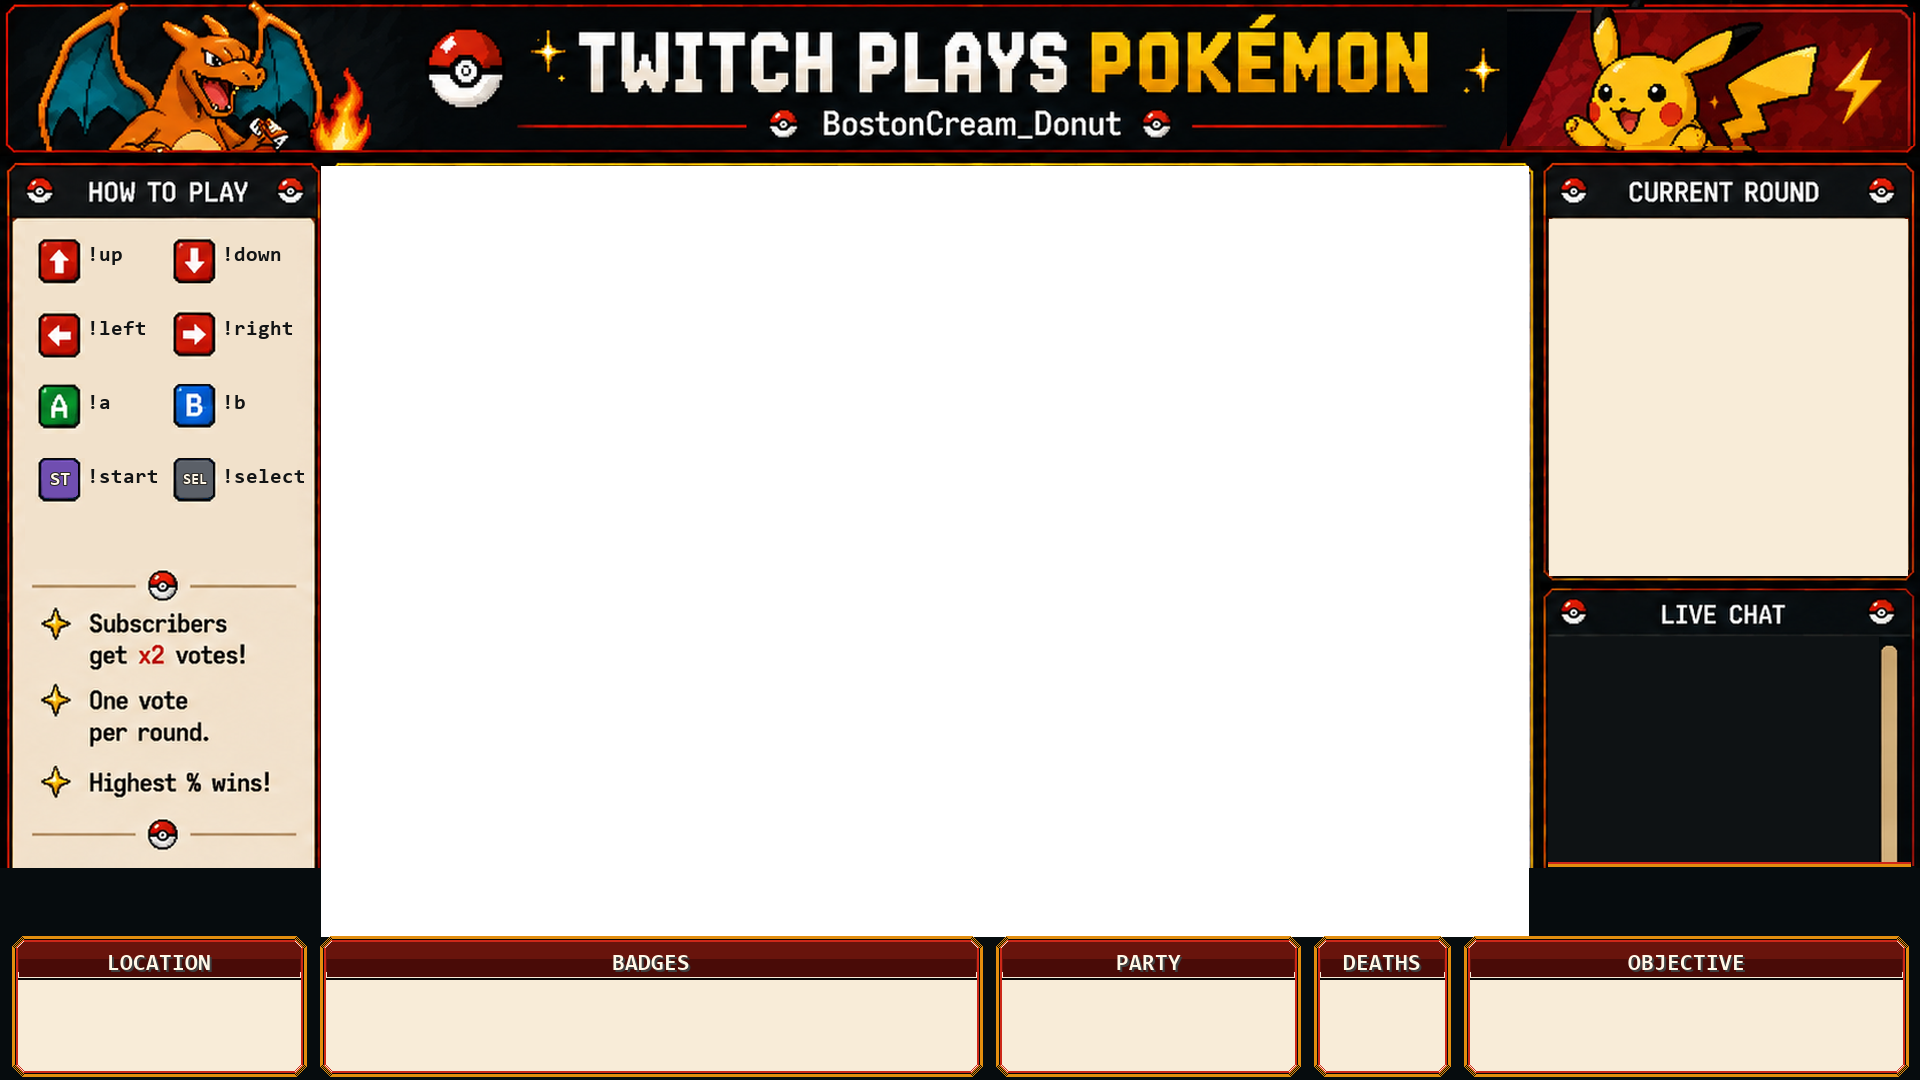
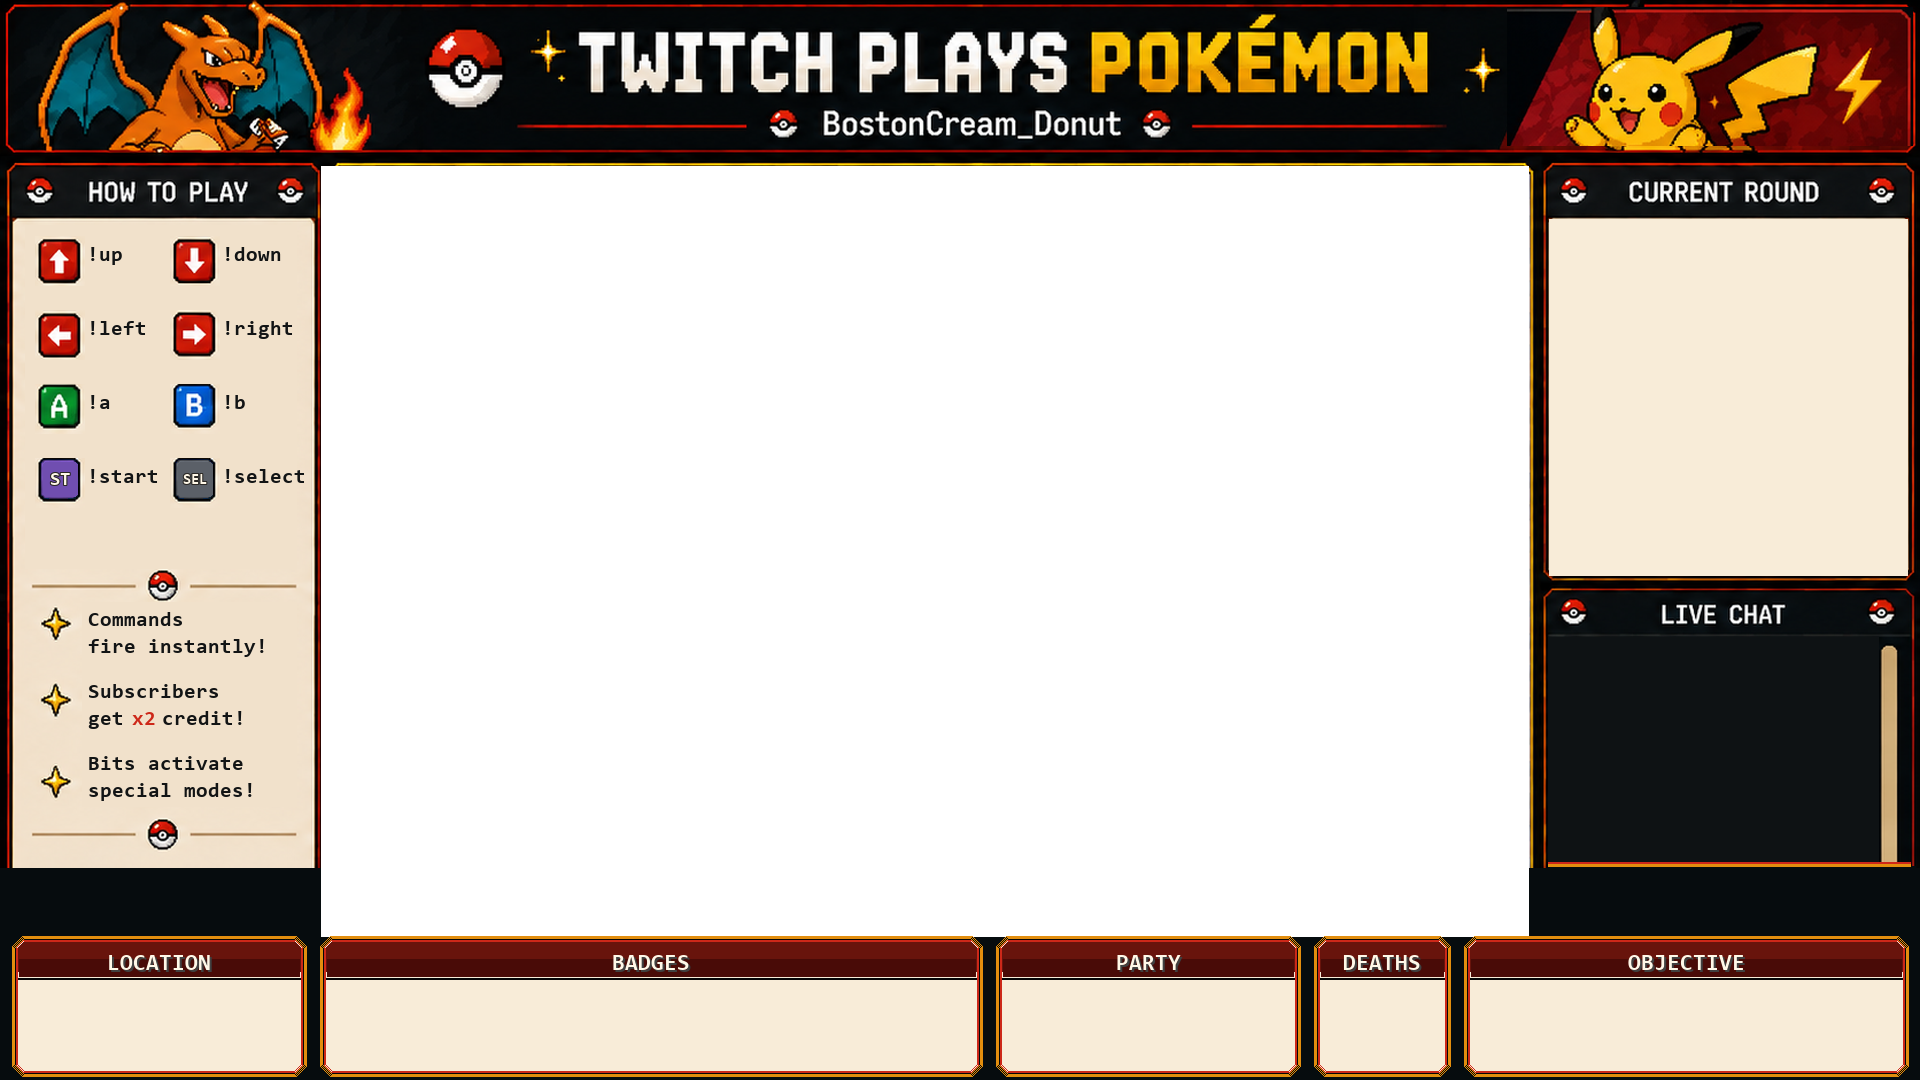
better change

Changed region(s): [[0.0312, 0.55, 0.1562, 0.7333]]

diff --git a/main.py b/main.py
@@ -1,5 +1,5 @@
 #!/usr/bin/env python3
-import json, logging, random, re, signal, subprocess, sys, threading, time, urllib.error, urllib.request
+import json, logging, queue, random, re, signal, subprocess, sys, threading, time, urllib.error, urllib.request
 from collections import Counter
 from pathlib import Path
 
@@ -141,6 +141,7 @@ class App:
         self.votes=Counter(); self.raw=Counter(); self.user_votes={}; self.order={}; self.seq=0
         self.recent=[]; self.chat_log=[]; self.last_winner=None; self.total_votes=0; self.total_weighted=0
         self.players=set(); self.rounds=0; self.effects={}
+        self.input_queue=queue.Queue()
         self.third_party_emotes={}
         self.third_party_emote_loads=set()
 
@@ -159,6 +160,29 @@ class App:
             self.on_message,self.on_notice,STOP
         )
         self.start_third_party_emote_load()
+        threading.Thread(target=self.input_worker,daemon=True).start()
+
+    def input_worker(self):
+        while not STOP.is_set():
+            try:
+                key=self.input_queue.get(timeout=.1)
+            except queue.Empty:
+                continue
+            try:
+                self.controller.press(key)
+            finally:
+                self.input_queue.task_done()
+
+    def queue_press(self,key):
+        self.input_queue.put(key)
+
+    def execute_command(self,cmd):
+        self.queue_press(self.mapped_key(cmd))
+        if self.effect_active("speed_round"):
+            self.queue_press(self.mapped_key(cmd))
+        if self.effect_active("chaos"):
+            extra=random.choice(list(self.controls))
+            self.queue_press(self.mapped_key(extra))
 
     def boot_sequence(self):
         if not CFG["stream_system"].get("show_boot_sequence",True):
@@ -199,7 +223,7 @@ class App:
 
     def activate_effect(self,effect,duration,user="",amount=0):
         self.effects[effect]={"end":time.monotonic()+duration,"source":user,"amount":amount}
-        labels={"speed_round":"SPEED ROUND","chaos":"CHAOS MODE",
+        labels={"speed_round":"SPEED MODE","chaos":"CHAOS MODE",
                 "reverse_controls":"REVERSE CONTROLS",
                 "king_mode":"KING MODE"}
         sound={"speed_round":"speed_round.wav",
@@ -219,8 +243,8 @@ class App:
                 self.clear_round_votes()
                 self.round_end=time.monotonic()+self.base_window
         dialogue={
-            "speed_round":("Bike Shop","Hold on tight! Voting just got a whole lot faster!"),
-            "chaos":("Team Rocket","Prepare for trouble! Every command goes through right now!"),
+            "speed_round":("Bike Shop","Hold on tight! Every command fires twice!"),
+            "chaos":("Team Rocket","Prepare for trouble! Random bonus inputs are flying!"),
             "reverse_controls":("Psychic Trainer","Your sense of direction feels... backwards."),
             "king_mode":("Elite Trainer",f"{user} is king now. Hold on tight!")
         }.get(effect)
@@ -400,31 +424,22 @@ class App:
             if user.lower()==king_owner:
                 w=self.weight(tags)
                 self.db.record_vote(user,w,CFG["stream_system"]["trainer_xp_per_vote"])
-                self.controller.press(self.mapped_key(cmd))
+                self.execute_command(cmd)
                 with self.lock:
+                    self.user_votes[user.lower()]={"command":cmd,"weight":w}
+                    self.votes[cmd]+=w; self.raw[cmd]+=1
+                    self.seq+=1; self.order.setdefault(cmd,self.seq)
+                    self.total_votes+=1; self.total_weighted+=w; self.players.add(user.lower())
                     self.recent.append({"username":user,"command":cmd,"subscriber":is_sub(tags),"weight":w})
                     self.recent=self.recent[-30:]
             return
 
         w=self.weight(tags)
         self.db.record_vote(user,w,CFG["stream_system"]["trainer_xp_per_vote"])
-
-        if self.effect_active("chaos"):
-            self.controller.press(self.mapped_key(cmd))
-            with self.lock:
-                self.recent.append({"username":user,"command":cmd,"subscriber":is_sub(tags),"weight":w})
-                self.recent=self.recent[-30:]
-            return
+        self.execute_command(cmd)
 
         u=user.lower()
         with self.lock:
-            if u in self.user_votes:
-                old=self.user_votes[u]
-                if old["command"]==cmd:return
-                self.votes[old["command"]]-=old["weight"]; self.raw[old["command"]]-=1
-                if self.votes[old["command"]]<=0:self.votes.pop(old["command"],None)
-                if self.raw[old["command"]]<=0:self.raw.pop(old["command"],None)
-
             self.user_votes[u]={"command":cmd,"weight":w}
             self.votes[cmd]+=w; self.raw[cmd]+=1
             self.seq+=1; self.order.setdefault(cmd,self.seq)
@@ -487,7 +502,7 @@ class App:
                     self.round_end=time.monotonic()+self.base_window
                 STOP.wait(.05)
                 continue
-            desired=1.0 if self.effect_active("speed_round") else self.base_window
+            desired=self.base_window
             if desired!=self.vote_window:
                 self.vote_window=desired; self.round_end=time.monotonic()+desired
             if time.monotonic()<self.round_end:
@@ -500,8 +515,6 @@ class App:
                     self.rounds+=1
                 self.votes=Counter(); self.raw=Counter(); self.user_votes={}; self.order={}; self.seq=0
                 self.round_end=time.monotonic()+self.vote_window
-            if winner:
-                self.controller.press(self.mapped_key(winner))
 
     def gym_worker(self):
         ss=CFG["stream_system"]

diff --git a/test_stream_system.py b/test_stream_system.py
@@ -12,7 +12,7 @@ while True:
     print("""
 1 Sub alert
 2 Gift sub
-3 World event: Speed Round
+3 World event: Speed Mode
 4 Trainer Card
 5 Gym Challenge start
 6 Gym Challenge cleared
@@ -25,10 +25,10 @@ q Quit
     if c=="q":break
     if c=="1":write(EP,{"kind":"subscriber","title":"NEW TRAINER JOINED!","subtitle":"TestTrainer subscribed • votes count ×2","extra":{},"duration":4})
     elif c=="2":write(EP,{"kind":"gift_sub","title":"A POKé BALL WAS GIFTED!","subtitle":"TestTrainer gifted 5 subs!","extra":{},"duration":4.5})
-    elif c=="3":write(EP,{"kind":"world_event","title":"SPEED ROUND","subtitle":"Active for 60 seconds","extra":{"effect":"speed_round"},"duration":3.2})
+    elif c=="3":write(EP,{"kind":"world_event","title":"SPEED MODE","subtitle":"Active for 60 seconds","extra":{"effect":"speed_round"},"duration":3.2})
     elif c=="4":write(EP,{"kind":"trainer_card","title":"TRAINER Lv. 12","subtitle":"TestTrainer • 1,240 votes • 3 events","extra":{"xp_into_level":42,"xp_per_level":100,"weighted_votes":1750},"duration":6})
     elif c=="5":write(EP,{"kind":"gym_start","title":"GYM CHALLENGE!","subtitle":"Cast 75 weighted votes before time runs out!","extra":{},"duration":5})
-    elif c=="6":write(EP,{"kind":"gym_win","title":"CHALLENGE CLEARED!","subtitle":"Reward: SPEED ROUND","extra":{},"duration":5})
-    elif c=="7":write(DP,{"speaker":"Bike Shop","text":"Hold on tight! Voting just got a whole lot faster!","duration":4.5})
-    elif c=="8":write(DP,{"speaker":"Team Rocket","text":"Prepare for trouble! Every winning move gets an extra A press!","duration":4.5})
+    elif c=="6":write(EP,{"kind":"gym_win","title":"CHALLENGE CLEARED!","subtitle":"Reward: SPEED MODE","extra":{},"duration":5})
+    elif c=="7":write(DP,{"speaker":"Bike Shop","text":"Hold on tight! Every command fires twice!","duration":4.5})
+    elif c=="8":write(DP,{"speaker":"Team Rocket","text":"Prepare for trouble! Random bonus inputs are flying!","duration":4.5})
     elif c=="9":write(BP,{"step":"CONNECTING TO TWITCH","detail":"Opening trainer network…","done":False})

diff --git a/test_events.py b/test_events.py
@@ -125,7 +125,7 @@ MENU = {
     "1": ("subscriber", "NEW TRAINER JOINED!", "TestTrainer subscribed - votes count x2", {"user": "TestTrainer"}, 5),
     "2": ("gift_sub", "A POKE BALL WAS GIFTED!", "TestTrainer gifted a sub to LuckyViewer", {"user": "TestTrainer", "recipient": "LuckyViewer"}, 6),
     "3": ("resub", "WELCOME BACK!", "TestTrainer resubscribed for 6 months", {"user": "TestTrainer", "months": 6}, 5),
-    "4": ("world_event", "SPEED ROUND", "TestTrainer used 250 Bits - SPEED ROUND for 60s", {"bits": 250, "effect": "speed_round"}, 5),
+    "4": ("world_event", "SPEED MODE", "TestTrainer used 250 Bits - SPEED MODE for 60s", {"bits": 250, "effect": "speed_round"}, 5),
     "5": ("world_event", "CHAOS MODE", "TestTrainer used 500 Bits - CHAOS MODE for 60s", {"bits": 500, "effect": "chaos"}, 5),
     "6": ("world_event", "REVERSE CONTROLS", "TestTrainer used 1,000 Bits - REVERSE CONTROLS for 60s", {"bits": 1000, "effect": "reverse_controls"}, 5),
     "7": ("world_event", "KING MODE", "TestTrainer used 2,000 Bits - KING MODE for 60s", {"bits": 2000, "effect": "king_mode"}, 5),

diff --git a/tools/build_overlay_assets.py b/tools/build_overlay_assets.py
@@ -147,6 +147,23 @@ def draw_how_to_play_commands(frame):
         frame.alpha_composite(source_buttons[button], (cx, cy))
         draw.text((cx + 52, cy + 9), command, font=text_f, fill=INK)
 
+    # Update rule copy for instant-control mode while preserving the original stars/dividers.
+    rule_f = font(21)
+    draw.rectangle((82, 602, 296, 806), fill=HOW_TO_PLAY_FILL)
+    rules = [
+        ("Commands", "fire instantly!"),
+        ("Subscribers", "get x2 credit!"),
+        ("Bits activate", "special modes!"),
+    ]
+    for y, (line1, line2) in zip((610, 682, 754), rules):
+        draw.text((88, y), line1, font=rule_f, fill=INK)
+        if "x2" in line2:
+            draw.text((88, y + 27), "get ", font=rule_f, fill=INK)
+            draw.text((132, y + 27), "x2", font=rule_f, fill=INNER_RED)
+            draw.text((162, y + 27), "credit!", font=rule_f, fill=INK)
+        else:
+            draw.text((88, y + 27), line2, font=rule_f, fill=INK)
+
 
 def make_clean_frame():
     source = UI / "overlay_frame_source.png"

diff --git a/overlay_app.py b/overlay_app.py
@@ -823,8 +823,8 @@ class Overlay(QWidget):
 
     def draw_effect_card_text(self, p, x, y, w, h, effect):
         copy = {
-            "speed_round": ("SPEED ROUND!", "Voting time reduced to 1 sec!"),
-            "chaos": ("CHAOS MODE!", "All commands execute instantly!"),
+            "speed_round": ("SPEED MODE!", "Commands fire twice!"),
+            "chaos": ("CHAOS MODE!", "Random bonus inputs!"),
             "reverse_controls": ("REVERSE CONTROLS!", "Up <-> Down   Left <-> Right"),
             "king_mode": ("KING MODE!", "Only the king controls the game!"),
         }.get(effect, (str(effect).replace("_", " ").upper(), "World event active!"))
